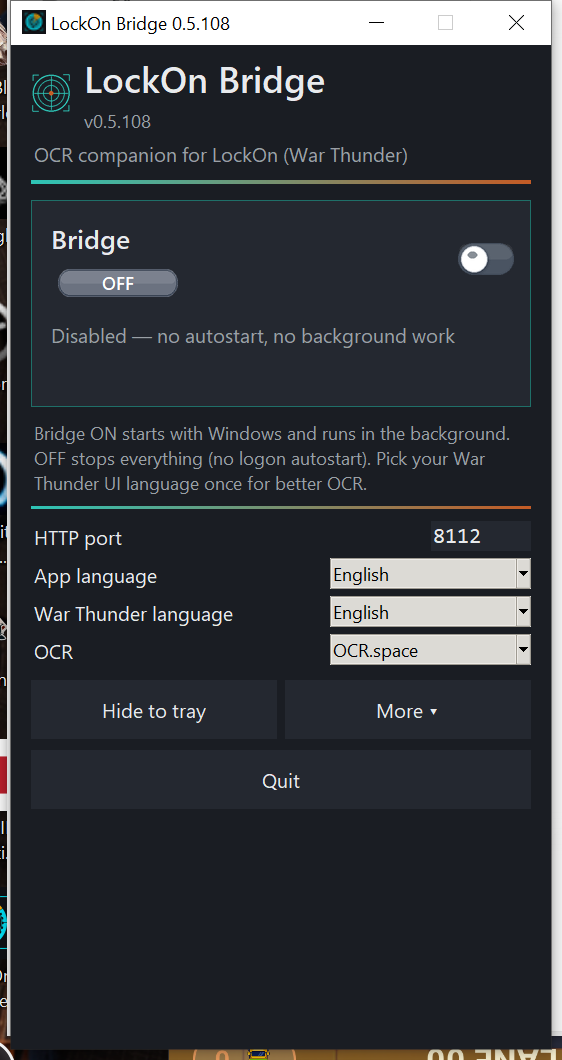
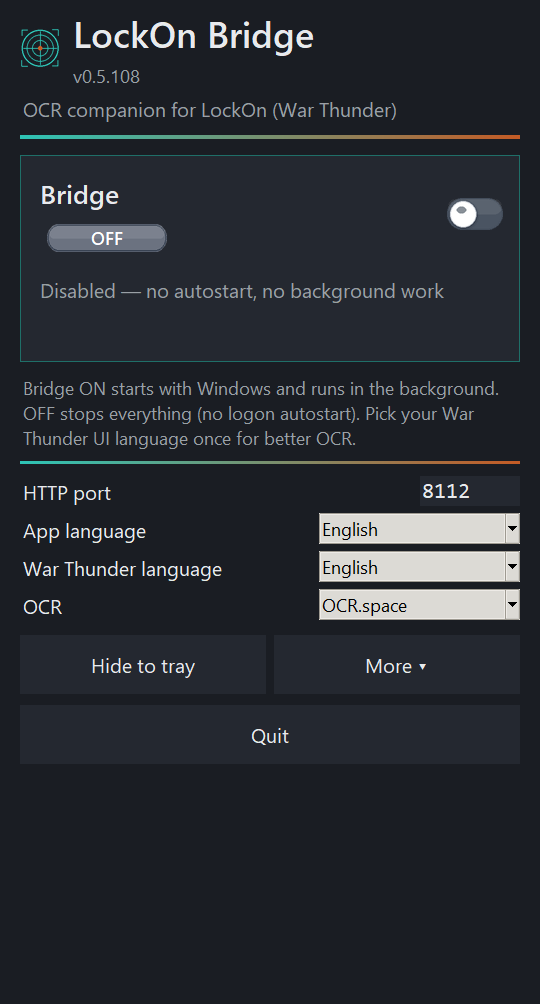
docs: capture clean English preview screenshots
Grab the client area only and trim black DWM padding so README previews no longer show the desktop around the window.

Changed region(s): [[0.0, 0.0, 1.0, 1.0], [0.1778, 0.6484, 0.3852, 0.6793], [0.4444, 0.7102, 0.5333, 0.7719]]

diff --git a/tools/capture_preview_en.py b/tools/capture_preview_en.py
@@ -1,4 +1,4 @@
-"""Capture English UI previews into docs/preview/."""
+"""Capture English UI previews into docs/preview/ (clean window only, no desktop)."""
 
 from __future__ import annotations
 
@@ -9,13 +9,15 @@ import sys
 import time
 from pathlib import Path
 
-from PIL import ImageGrab
+from PIL import Image
 
 ROOT = Path(__file__).resolve().parents[1]
 OUT = ROOT / "docs" / "preview"
 PY = Path(r"D:\CodexData\LockOnBridge\build-python\pythonw.exe")
 if not PY.is_file():
     PY = Path(r"D:\CodexData\LockOnBridge\build-python\python.exe")
+
+SRCCOPY = 0x00CC0020
 
 
 def _enable_dpi() -> None:
@@ -75,13 +77,101 @@ def _find_hwnd() -> int:
     return int(found.value or 0)
 
 
-def _window_bbox(hwnd: int) -> tuple[int, int, int, int]:
+def _client_screen_rect(hwnd: int) -> tuple[int, int, int, int]:
+    """Client area in screen coordinates (excludes the OS title bar / borders)."""
     import ctypes
     from ctypes import wintypes
 
+    user32 = ctypes.windll.user32
     rect = wintypes.RECT()
-    ctypes.windll.user32.GetWindowRect(hwnd, ctypes.byref(rect))
-    return rect.left, rect.top, rect.right, rect.bottom
+    user32.GetClientRect(hwnd, ctypes.byref(rect))
+    pt_tl = wintypes.POINT(rect.left, rect.top)
+    pt_br = wintypes.POINT(rect.right, rect.bottom)
+    user32.ClientToScreen(hwnd, ctypes.byref(pt_tl))
+    user32.ClientToScreen(hwnd, ctypes.byref(pt_br))
+    return pt_tl.x, pt_tl.y, pt_br.x, pt_br.y
+
+
+def _capture_client_bitmap(hwnd: int) -> Image.Image:
+    """BitBlt only the client area — no desktop shadow fringe, no white title bar."""
+    import ctypes
+    from ctypes import wintypes
+
+    user32 = ctypes.windll.user32
+    gdi32 = ctypes.windll.gdi32
+
+    left, top, right, bottom = _client_screen_rect(hwnd)
+    width = max(1, right - left)
+    height = max(1, bottom - top)
+
+    screen_dc = user32.GetDC(0)
+    if not screen_dc:
+        raise RuntimeError("GetDC failed")
+    mem_dc = gdi32.CreateCompatibleDC(screen_dc)
+    bmp = gdi32.CreateCompatibleBitmap(screen_dc, width, height)
+    old = gdi32.SelectObject(mem_dc, bmp)
+    gdi32.BitBlt(mem_dc, 0, 0, width, height, screen_dc, left, top, SRCCOPY)
+
+    class BITMAPINFOHEADER(ctypes.Structure):
+        _fields_ = [
+            ("biSize", wintypes.DWORD),
+            ("biWidth", wintypes.LONG),
+            ("biHeight", wintypes.LONG),
+            ("biPlanes", wintypes.WORD),
+            ("biBitCount", wintypes.WORD),
+            ("biCompression", wintypes.DWORD),
+            ("biSizeImage", wintypes.DWORD),
+            ("biXPelsPerMeter", wintypes.LONG),
+            ("biYPelsPerMeter", wintypes.LONG),
+            ("biClrUsed", wintypes.DWORD),
+            ("biClrImportant", wintypes.DWORD),
+        ]
+
+    class BITMAPINFO(ctypes.Structure):
+        _fields_ = [("bmiHeader", BITMAPINFOHEADER), ("bmiColors", wintypes.DWORD * 3)]
+
+    bmi = BITMAPINFO()
+    bmi.bmiHeader.biSize = ctypes.sizeof(BITMAPINFOHEADER)
+    bmi.bmiHeader.biWidth = width
+    bmi.bmiHeader.biHeight = -height  # top-down
+    bmi.bmiHeader.biPlanes = 1
+    bmi.bmiHeader.biBitCount = 32
+    bmi.bmiHeader.biCompression = 0
+
+    buf_size = width * height * 4
+    buf = (ctypes.c_ubyte * buf_size)()
+    gdi32.GetDIBits(mem_dc, bmp, 0, height, ctypes.byref(buf), ctypes.byref(bmi), 0)
+
+    gdi32.SelectObject(mem_dc, old)
+    gdi32.DeleteObject(bmp)
+    gdi32.DeleteDC(mem_dc)
+    user32.ReleaseDC(0, screen_dc)
+
+    image = Image.frombuffer("RGB", (width, height), bytes(buf), "raw", "BGRX", 0, 1)
+    return image.copy()
+
+
+def _trim_black_margins(image: Image.Image, *, thr: int = 8) -> Image.Image:
+    """Remove PrintWindow/DWM black padding outside the opaque window frame."""
+    px = image.load()
+    w, h = image.size
+
+    def dark(p: tuple[int, int, int]) -> bool:
+        return p[0] <= thr and p[1] <= thr and p[2] <= thr
+
+    left = 0
+    while left < w and all(dark(px[left, y]) for y in range(h)):
+        left += 1
+    right = w - 1
+    while right > left and all(dark(px[right, y]) for y in range(h)):
+        right -= 1
+    top = 0
+    while top < h and all(dark(px[x, top]) for x in range(left, right + 1)):
+        top += 1
+    bottom = h - 1
+    while bottom > top and all(dark(px[x, bottom]) for x in range(left, right + 1)):
+        bottom -= 1
+    return image.crop((left, top, right + 1, bottom + 1))
 
 
 def _capture(path: Path) -> None:
@@ -92,25 +182,26 @@ def _capture(path: Path) -> None:
     for _ in range(60):
         hwnd = _find_hwnd()
         if hwnd:
-            left, top, right, bottom = _window_bbox(hwnd)
-            if right - left >= 480 and bottom - top >= 600:
+            left, top, right, bottom = _client_screen_rect(hwnd)
+            if right - left >= 480 and bottom - top >= 560:
                 break
         time.sleep(0.25)
     if not hwnd:
         raise RuntimeError("LockOn Bridge window not found")
-    user32.ShowWindow(hwnd, 9)
+
+    user32.ShowWindow(hwnd, 9)  # SW_RESTORE
     user32.SetForegroundWindow(hwnd)
-    time.sleep(0.6)
-    left, top, right, bottom = _window_bbox(hwnd)
-    # Pad slightly so chrome is included; clamp to screen.
-    bbox = (left, top, right, bottom)
-    img = ImageGrab.grab(bbox=bbox, all_screens=True)
-    # Crop empty letterbox if grab overshot.
-    if img.width < 400:
-        raise RuntimeError(f"capture too narrow: {img.size} bbox={bbox}")
+    # Move fully on-screen so BitBlt of the client area cannot clip into desktop.
+    # Place near top-left so the client BitBlt cannot clip into desktop chrome.
+    user32.SetWindowPos(hwnd, 0, 40, 40, 0, 0, 0x0001 | 0x0004)  # NOSIZE | NOZORDER
+    time.sleep(0.5)
+
+    image = _trim_black_margins(_capture_client_bitmap(hwnd))
+    if image.width < 400:
+        raise RuntimeError(f"capture too narrow: {image.size}")
     path.parent.mkdir(parents=True, exist_ok=True)
-    img.save(path, "PNG", optimize=True)
-    print(f"saved {path} {img.size} bbox={bbox}")
+    image.save(path, "PNG", optimize=True)
+    print(f"saved {path} {image.size}")
 
 
 def _launch() -> subprocess.Popen:
